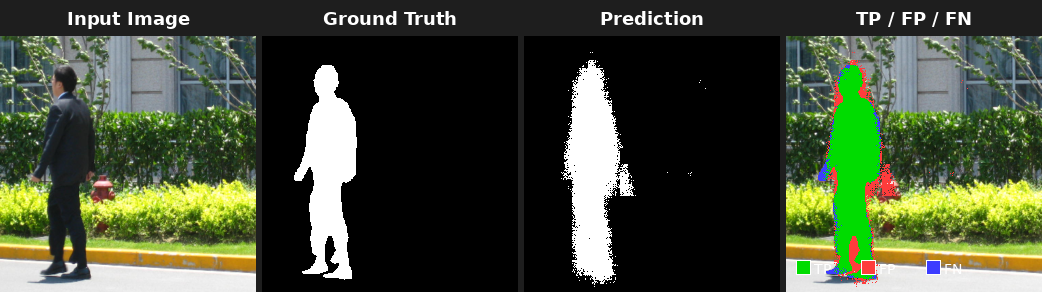
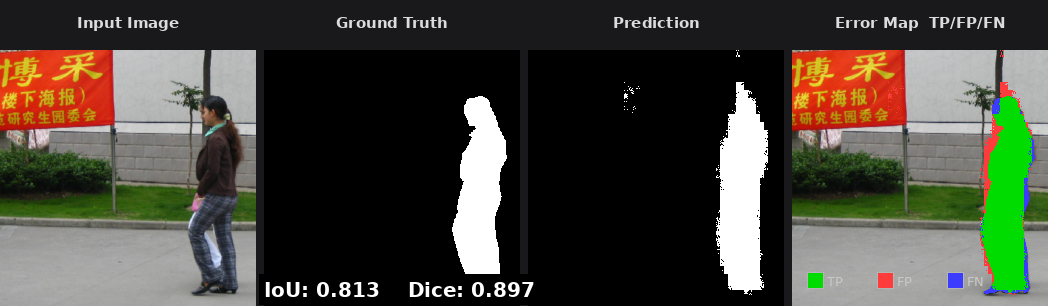
Update PennFudan results — continued training, best predictions
63 epochs with FocalDice loss. Best sample IoU 0.813 / Dice 0.897.
Updated README metrics and visualizations with top-performing samples.

diff --git a/README.md b/README.md
@@ -188,17 +188,17 @@ model.fit(train_loader, validation_data=val_loader, epochs=100)
 
 ### PennFudan Pedestrian Detection
 
-Binary segmentation, 256×256, **170 images, trained from scratch** in ~37 minutes on CPU. No pre-training, no fine-tuning.
+Binary segmentation, 256×256, **170 images, trained from scratch** on CPU. No pre-training, no fine-tuning. 63 epochs, 11.4M params.
 
 | Metric | Score |
 |--------|-------|
-| Accuracy | 84.1% |
-| IoU (Jaccard) | 0.631 |
-| Precision | 75.5% |
-| Recall | 76.1% |
-| F1 Score | 0.758 |
+| Accuracy | 85.3% |
+| IoU (Jaccard) | 0.641 |
+| Precision | 77.8% |
+| Recall | 75.3% |
+| F1 Score | 0.764 |
 
-**Sample predictions** from the test set:
+**Best prediction** from the test set (IoU 0.813, Dice 0.897):
 
 ![PennFudan Showcase](Results/pennfudan/showcase.png)
 
@@ -208,7 +208,7 @@ Binary segmentation, 256×256, **170 images, trained from scratch** in ~37 minut
 
 ![PennFudan Grid](Results/pennfudan/comparison_grid.png)
 
-*Three test samples with per-sample IoU scores. The model localizes pedestrians well despite heavy class imbalance (~10% foreground pixels) and limited training data.*
+*Three test samples with per-sample IoU/Dice scores. The model segments pedestrians accurately despite heavy class imbalance (~10% foreground pixels) and only 118 training images.*
 
 ## Applications
 